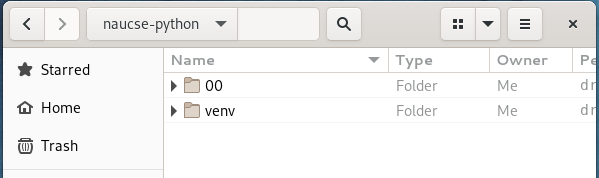
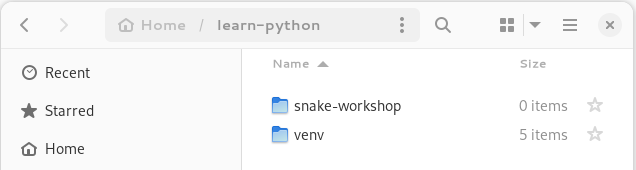
beginners/venv-setup: Revise lesson

diff --git a/lessons/beginners/venv-setup/index.md b/lessons/beginners/venv-setup/index.md
@@ -15,54 +15,44 @@
     </div>
 {%- endmacro -%}
 
-# Environment settings
+# Environment setup
 
 In this section, you will:
-* prepare a directory to save files for Python beginner courses, and
+* prepare a directory for this workshop, and
 * activate a virtual environment.
 
-## Preparing directory
+## Preparing a directory
 
-Programmers create a lot of files and, more than with many other computer users, it matters to them where the files are stored.
+Programmers create a lot of files. And they care where those files are stored.
 
-The procedure below is by no means the only way to organize files.
-However, if you use this tried and tested method, it can greatly simplify the lives of those who will help you with any problems.
+The procedure below is by no means the only way to organize files,
+but if everyone in the workshop uses it, it'll be easier for us to help you with any problems.
 
-{%- if var('pyladies') -%}
-{% set rootname = 'pyladies' %}
-{%- else -%}
 {% set rootname = 'learn-python' %}
-{%- endif %}
 
-First, create a directory (folder) where you will have files for the Python course.
+First, create a directory (folder) for the workshop.
 It can be, for example, `{{ rootname }}` in your home directory.
-(You can also name it something else, but `{{ rootname }}` is used in the examples below.)
+(You can name it differently, but `{{ rootname }}` is used in the examples below.)
 
-You must not move the selected directory after creating it. Therefore, I do not recommend creating it on the Desktop.
+You must not move this directory after creating it.
+Therefore, I do not recommend creating it on the Desktop.
 
 > [note]
-> If you ever move the directory to another location, the *virtual environment* we will create in a moment will stop working.
-> You would have to delete it and create a new one.
+> If you ever do move the directory to another location, the *virtual environment* we will create in a moment will stop working.
+> In that case you will have to delete the environment and create a new one.
 
-You will need this directory for the rest of the course and for any subsequent courses.
-Therefore, note where it is exactly - copy its entire name, which you can then paste into `cd` in the command line or into a graphical file browser.
+At the workshop, you will need to know where this directory is.
+Note down its full name, which you can then paste into a graphical file browser or into `cd` in the command line.
+
 
 ### Directory for every lesson
 
-The new directory is currently empty.
-However, this will soon change and the more things there are in it, the more important it will be to have the content organized.
-
-To start, we will create a new subdirectory for each lesson of this course.
-To keep these directories nicely organized, we will number them: this first lesson will have the number '00', next you will create directory '01', and so on.
-
-All of them will be in your new directory that you created a moment ago.
-
-Create the directory '00' now.
-You may not put anything in it today, but it will be useful to have it as an example for next time.
+We could use the directory directly, but let's organize things a bit more.
+Create an additional directory inside `{{ rootname }}`, and name it `snake-workshop`.
 
 ### Switching
 
-Then open the command line and use the `cd` command to switch to the directory where you just created `00` (i.e. not directly into `00`).
+Then open the command line and use the `cd` command to switch to the directory `{{ rootname }}` (i.e. not all the way into `snake-workshop`).
 For example:
 
  ```console
@@ -71,7 +61,7 @@ $ cd {{ rootname }}
 
 Then check that you are in the right place:
 * Use the command `pwd` (on Windows `cd`) to check that you are really in the newly created directory.
-* Use the command `ls` (on Windows `dir`) to check that there is a subdirectory `00` in it.
+* Use the command `ls` (on Windows `dir`) to check that there is a subdirectory `snake-workshop` in it.
 
 For example:
 
@@ -80,30 +70,30 @@ $ pwd
 /home/helena/{{rootname}}
 
 $ ls
-00
+snake-workshop
 ---
 > cd
 C:\Users\Helena\{{rootname}}
 
 > dir
  Directory of C:\Users\Helena\{{rootname}}
-05/08/2014 07:28 PM <DIR>  00
+05/08/2014 07:28 PM <DIR>  snake-workshop
 {% endcall %}
 
 ## Virtual environment
 
 Now you will create a *virtual environment* for Python.
 
-Virtual environment is something that ensures that all computers will behave roughly the same.
-Once we set it up, I won't need separate instructions for Linux, Windows, and macOS.
+A virtual environment is something that ensures that all computers on the workshop will behave roughly the same.
+Once we set it up, we won't need separate instructions for Linux, Windows, and macOS.
 
 > [note]
-> In the future, you will also benefit from the second advantage: each virtual environment is separated from the others, so when you install a library (an extension for Python), it will only affect >one virtual environment.
-> If something goes wrong while working on a project, it will not endanger other projects on your computer.
+> In the future, you will also benefit from the second advantage: each virtual environment is separated from the others, so when you install a library (an extension for Python), it will only affect one virtual environment.
+> If something goes wrong while working on one project, it will not endanger other projects on your computer.
 
 How to do it? It's different on every system!
 
-* **Linux**.
+### Linux:
 
 Depending on how you have Python installed, one of the following commands will work.
 It will be faster to try them out than to describe which one is correct, so first try:
@@ -118,13 +108,13 @@ And if you get the error `No module named venv`, try instead:
 $ virtualenv -p python3 venv
 ```
 
-* ***macOS**
+### macOS:
 
 ```console
    $ python3 -m venv venv
  ```
 
-* **Windows**:
+### Windows:
 
 Depending on how you have Python installed, one of the following commands will work.
 It will be faster to try them out than to describe which one is correct, so try this first:
@@ -133,7 +123,7 @@ It will be faster to try them out than to describe which one is correct, so try 
 > py -3 -m venv venv
 ```
 
-And if you get an error `'py' is not recognized`, try instead:
+And if you get an error like `'py' is not recognized`, try instead:
 
 ```doscon
 > python3 -m venv venv
@@ -142,11 +132,11 @@ And if you get an error `'py' is not recognized`, try instead:
 That created a directory called `venv`, which contains the virtual environment.
 You can look inside, but do not save your files there and never change anything there!
 
-Check that `00` and `venv` are nicely next to each other.
+Check that `snake-workshop` and `venv` are nicely next to each other.
 
 {% call sidebyside(titles=['Unix', 'Windows']) %}
 $ ls
-00
+snake-workshop
 venv
 ---
 > dir
@@ -165,7 +155,7 @@ In a graphical file browser, it looks like this, for example:
 
 ### Activation of the virtual environment
 
-Finally, activate the virtual environment.
+Finally, *activate* the new virtual environment:
 
 {% call sidebyside(titles=['Unix', 'Windows'], code=False) %}
 ```console
@@ -187,4 +177,4 @@ After running this command, the word `(venv)` should appear at the beginning of 
 
 Write down the activation command.
 
-Whenever you run a command line to test your programs, you will need to switch to `{{rootname}}` using `cd` and enter this activation command.
+When you open the command line at the workshop, you will need to switch to `{{rootname}}` using `cd` and enter this activation command.
